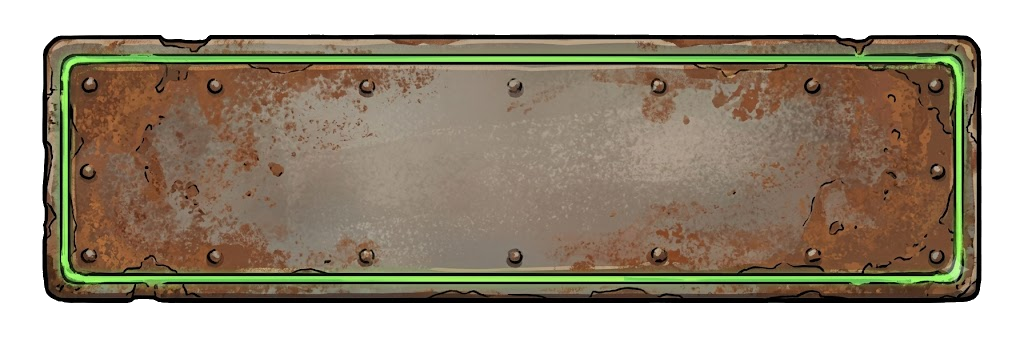
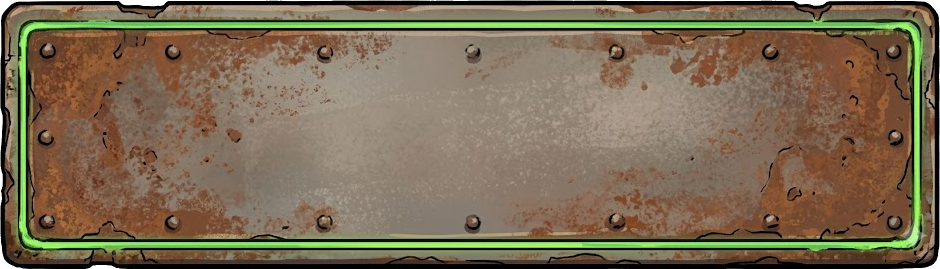
ui: обрезать плашку кнопки вплотную + врезки 9-slice под бортик
Прозрачные поля вокруг плиты уводили углы 9-slice в пустоту, из-за чего
бортики растягивались и кнопки казались узкими. Плита обрезана по bbox
(940x269), врезки 70/70/60/60 — Phaser клампит их на невысоких кнопках.

Claude-Session: https://claude.ai/code/session_01DkrvKL4QXzaQWsi2LyAw9b

diff --git a/src/ui/Button.js b/src/ui/Button.js
@@ -31,7 +31,7 @@ export function createButton(scene, x, y, opts = {}) {
   let g = null
   let draw
   if (usePlate) {
-    plate = scene.add.nineslice(0, 0, 'ui-button', undefined, width, height, 46, 46, 24, 24)
+    plate = scene.add.nineslice(0, 0, 'ui-button', undefined, width, height, 70, 70, 60, 60)
     // Плашка самодостаточна по цвету — тинтом лишь передаём состояние:
     // обычное — как есть, наведение — теплее/ярче, выключено — приглушённо.
     draw = (fill) => { plate.setTint(!enabled ? 0x8f867c : fill === hover ? 0xffe4b0 : 0xffffff) }
